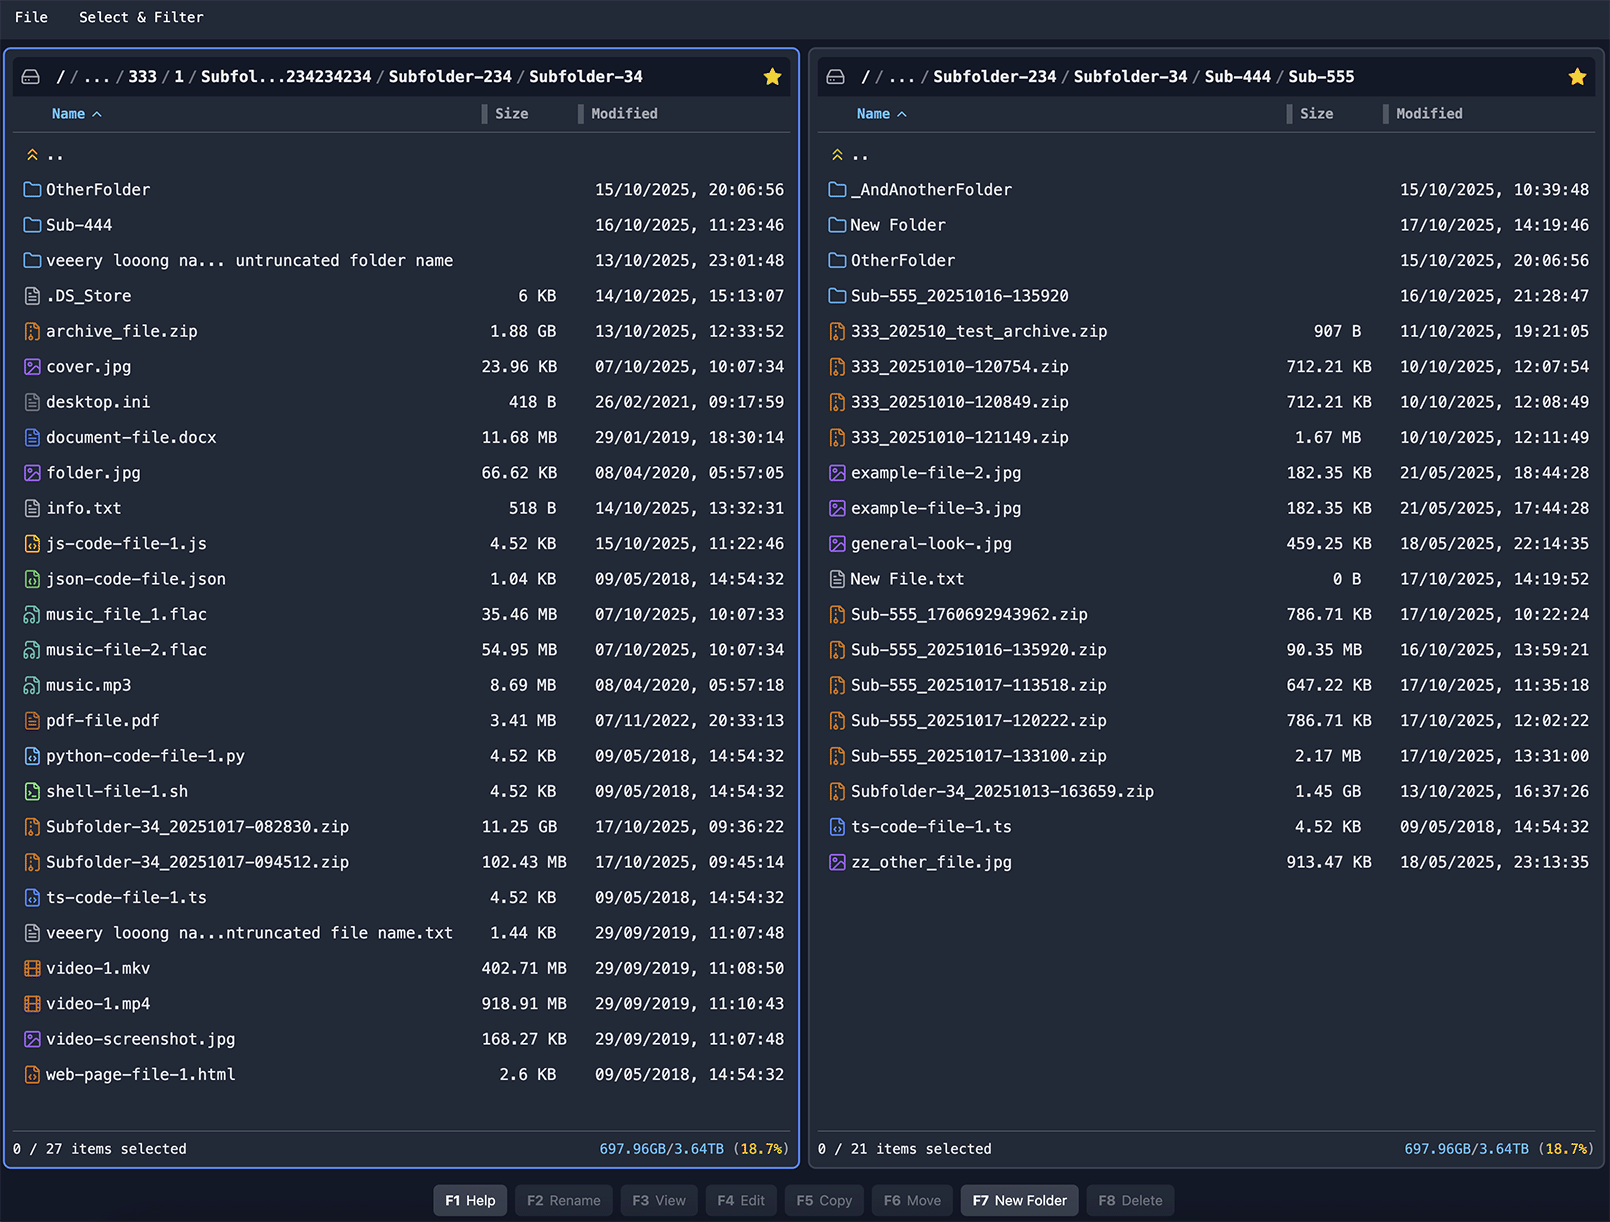
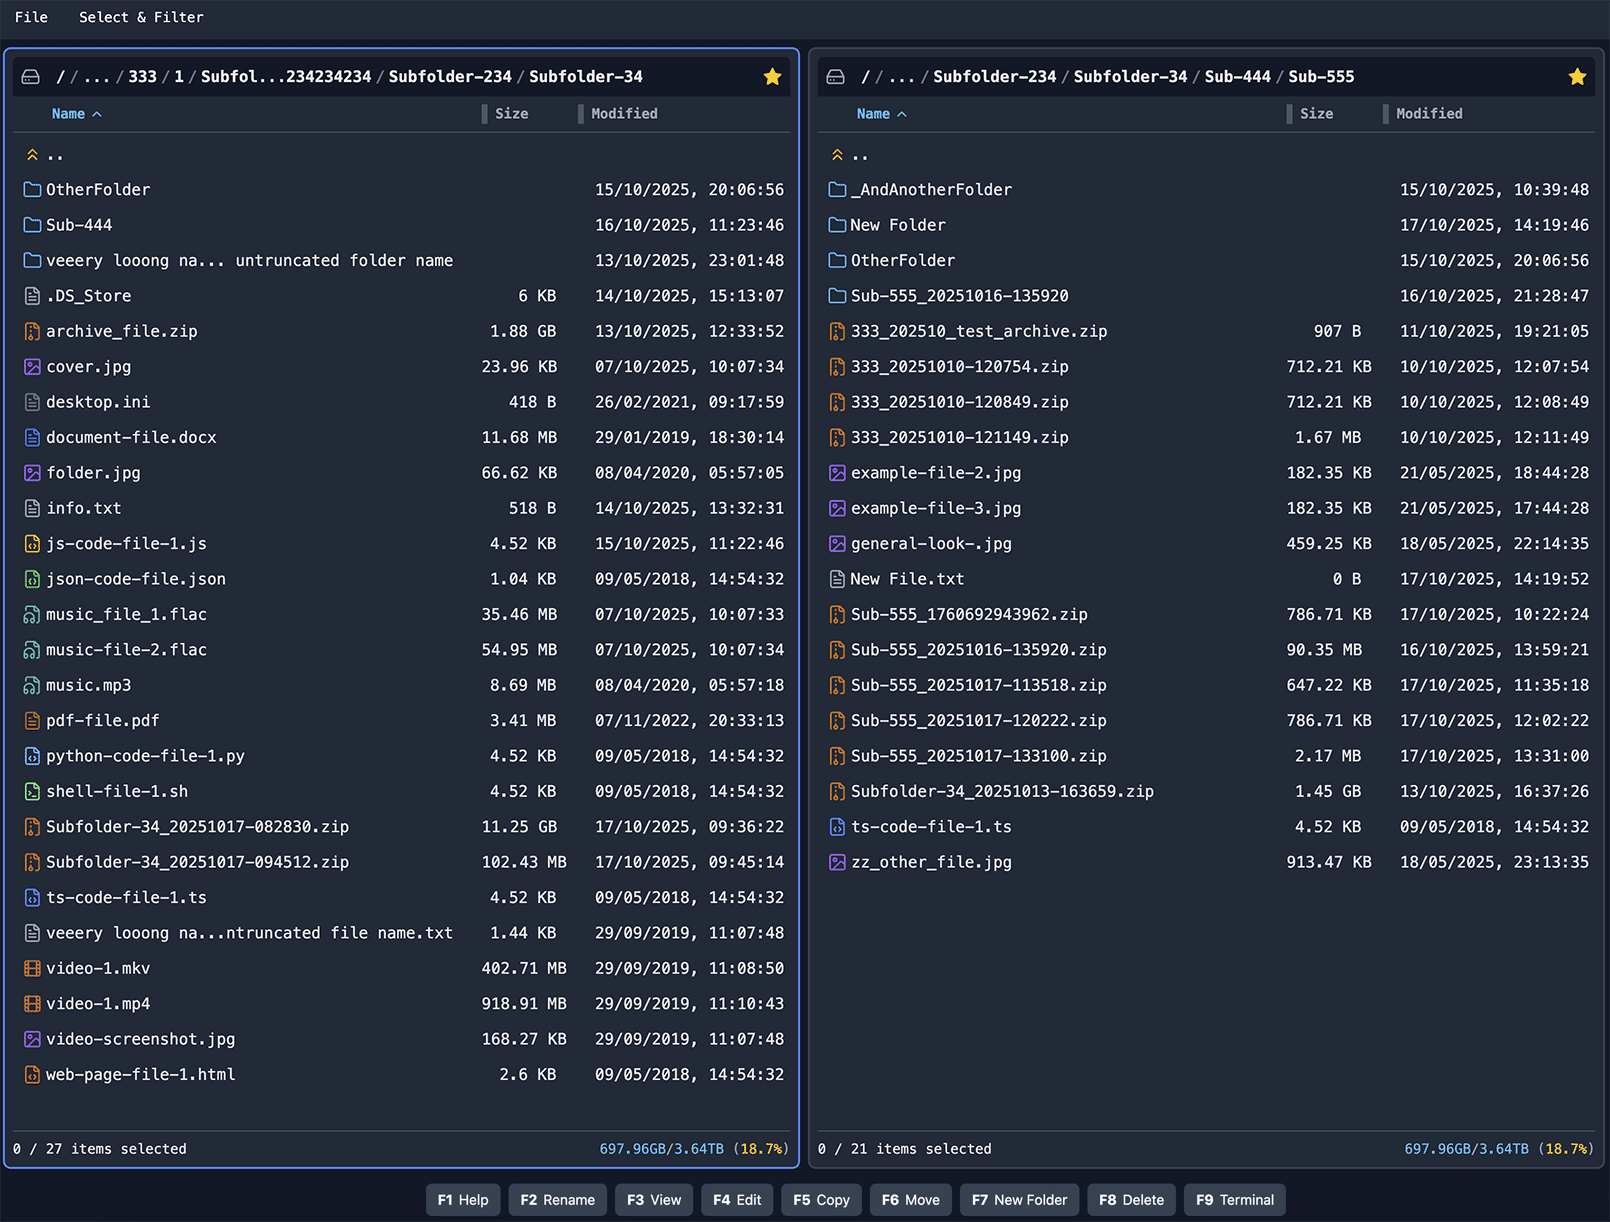
Updating Readme and Help Modal in relation to the new Terminal feature

Changed region(s): [[0.2484, 0.964, 0.8075, 0.9951]]

diff --git a/packages/client/src/components/modals/HelpModal.jsx b/packages/client/src/components/modals/HelpModal.jsx
@@ -19,6 +19,7 @@ import favouritesMenuScreenshot from "../../../screenshots/favourites-menu.png";
 import fileMenuScreenshot from "../../../screenshots/file-menu.png";
 import actionBarScreenshot from "../../../screenshots/action-bar.png";
 import overwriteModalScreenshot from "../../../screenshots/overwrite-modal.png";
+import builtInTerminalScreenshot from "../../../screenshots/built-in-terminal.png";
 
 const HelpSection = ({ title, id, children }) => (
   <section id={id} className="mb-8">
@@ -48,6 +49,7 @@ const HelpModal = ({ isVisible, onClose }) => {
     "Favourites",
     "Top Menus",
     "Function Key Actions",
+    "Terminal",
     "Copy/Move Operation & Conflict Modes",
   ];
 
@@ -688,10 +690,53 @@ const HelpModal = ({ isVisible, onClose }) => {
               <li>
                 <kbd>F8</kbd>: Delete the selected items.
               </li>
+              <li>
+                <kbd>F9</kbd>: Open app's built-in terminal in the current
+                panel's path.
+              </li>
             </ul>
             <img
               src={actionBarScreenshot}
               alt="Action Bar Screenshot"
+              className="w-3/4 mx-auto rounded-lg shadow-lg"
+            />
+          </HelpSection>
+
+          <HelpSection id="terminal" title="Terminal">
+            <p>
+              You can open a built-in terminal directly within the application,
+              either in the current panel's path or in the other panel's path.
+              This allows you to execute shell commands without leaving the file
+              manager.
+            </p>
+            <ul className="list-disc list-inside space-y-1 pl-4">
+              <li>
+                <strong>Open Terminal to Current Panel:</strong> Opens a
+                terminal session with the working directory set to the path of
+                the currently active panel.
+              </li>
+              <li>
+                <strong>Open Terminal to Other Panel:</strong> Opens a terminal
+                session with the working directory set to the path of the
+                inactive panel.
+              </li>
+              <li>
+                Once the Terminal is open, one can use the modal's icons to:
+                <ul className="list-disc list-inside space-y-1 pl-4">
+                  <li>
+                    <strong>Clear Terminal:</strong> Clears the current terminal
+                    screen.
+                  </li>
+                  <li>
+                    <strong>Clear Scrollback:</strong> Clears the terminal's
+                    scrollback history.
+                  </li>
+                </ul>
+              </li>
+            </ul>
+            <img
+              src={builtInTerminalScreenshot}
+              alt="Built-in Terminal Screenshot"
               className="w-3/4 mx-auto rounded-lg shadow-lg"
             />
           </HelpSection>

diff --git a/packages/client/src/components/modals/TerminalModal.jsx b/packages/client/src/components/modals/TerminalModal.jsx
@@ -196,7 +196,7 @@ const TerminalModal = ({ isOpen, onClose, jobId }) => {
             <button
               className="p-1 text-gray-300 hover:text-white"
               onClick={onClose}
-              title="Close (Esc)"
+              title="Close"
             >
               <XCircle className="w-6 h-6" />
             </button>

diff --git a/README.md b/README.md
@@ -176,6 +176,12 @@ A proxy is configured in the Vite settings (packages/client/vite.config.js) to f
   - **Text & Code:** A wide variety of text and code files are supported, including Text (`txt`), Markdown (`md`), JavaScript (`js`, `jsx`), TypeScript (`ts`, `tsx`), JSON (`json`), CSS (`css`), HTML (`html`), YAML (`yml`, `yaml`), Python (`py`), Shell Scripts (`sh`), XML (`xml`), and more.
   - **Archives:** ZIP
 
+- **Terminal**: You can open a built-in terminal directly within the application, either in the current panel\'s path or in the other panel\'s path. This allows you to execute shell commands without leaving the file manager.
+  - **Clear Terminal**: Clears the current terminal screen.
+  - **Clear Scrollback**: Clears the terminal\'s scrollback history.
+
+  ![Terminal Screenshot](packages/client/screenshots/built-in-terminal.png)
+
 - **Context Menus**: Right-clicking on an item or empty area opens a context menu with relevant actions.
 
   - **New _Submenu_**: You can create a new folder or a new empty text file directly from the application.
@@ -257,6 +263,8 @@ A proxy is configured in the Vite settings (packages/client/vite.config.js) to f
   - <kbd>F7</kbd>: Create a new folder in the active panel.
 
   - <kbd>F8</kbd>: Delete the selected items.
+
+  - <kbd>F9</kbd>: Open a terminal in the current panel's path.
 
     ![Action Bar Screenshot](packages/client/screenshots/action-bar.png)
 
